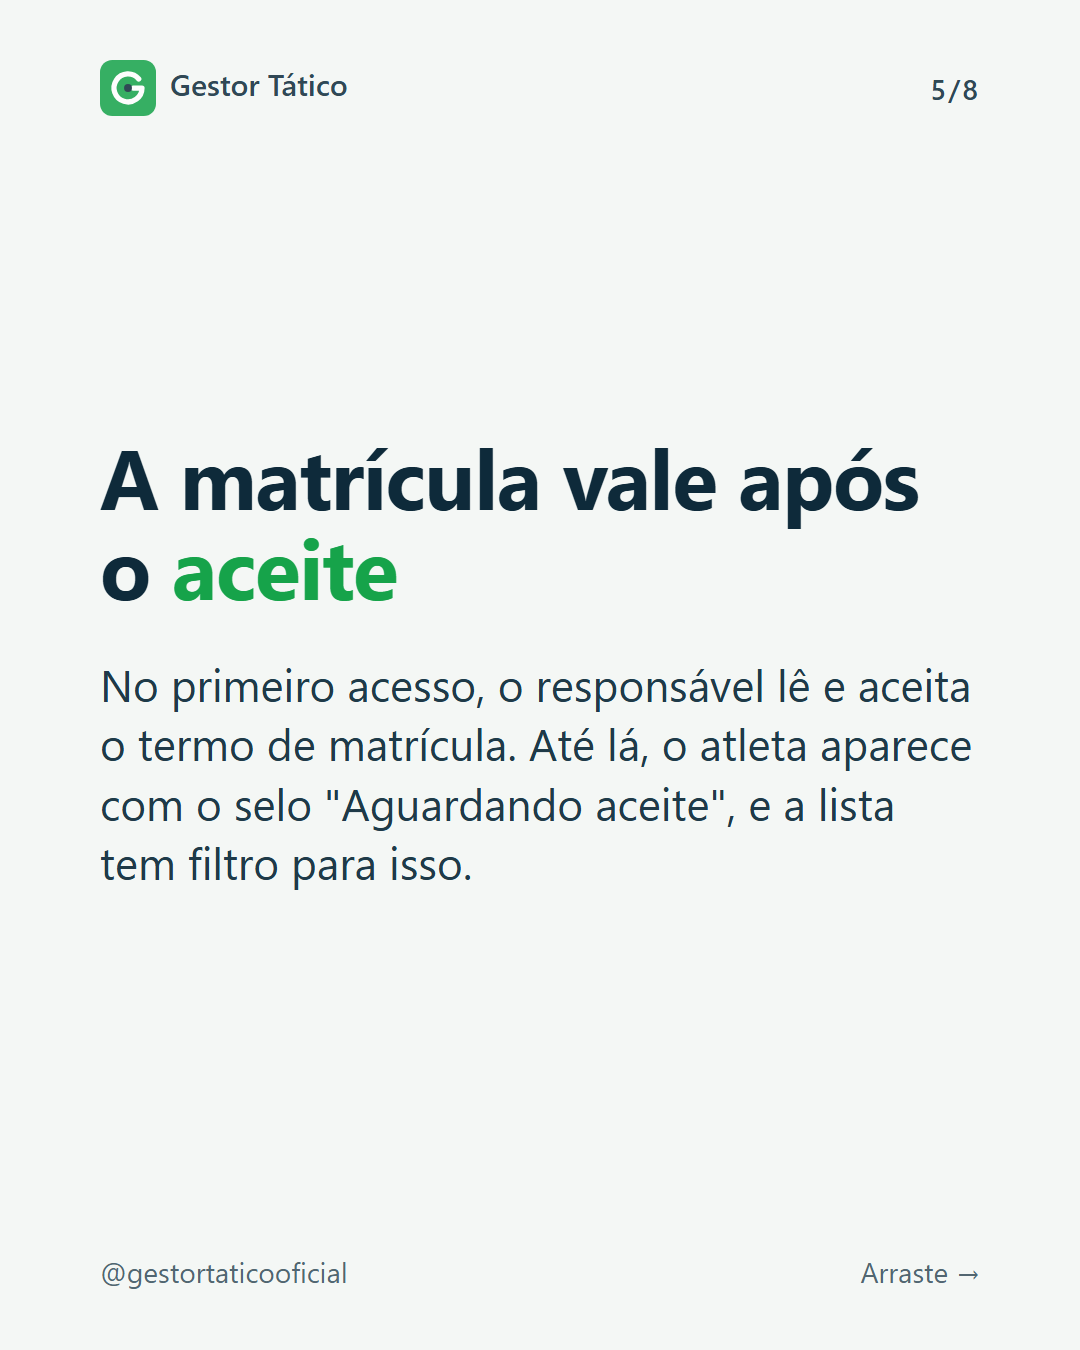
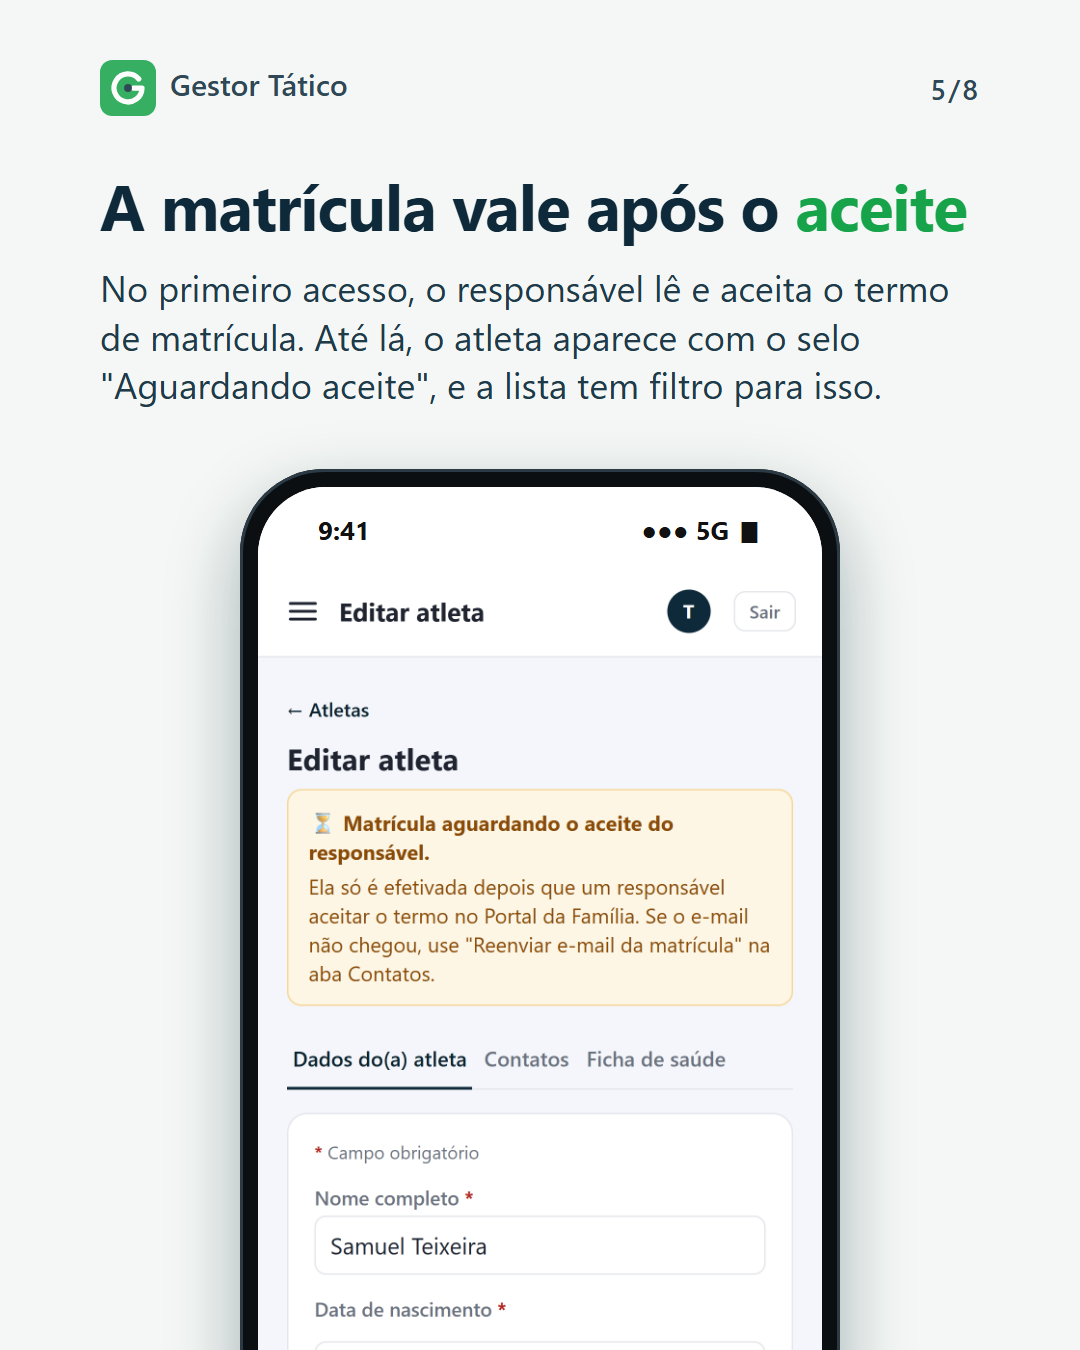
Instagram: prints reais do app nos carrosséis (matrícula publicada em 25/11, estoque, perfis, contato e primeiros passos)

diff --git a/docs/marca/instagram/decks.js b/docs/marca/instagram/decks.js
@@ -1,5 +1,5 @@
 // Textos dos carrosséis. Cada chave é um carrossel (ou post único); o nome vira o prefixo dos PNGs em png/.
-// Slide: {t:'capa'|'claro'|'verde', tag, h, p, list, passo, n, b}. <em> destaca em verde. Veja carrosseis.html.
+// Slide: {t:'capa'|'claro'|'verde', tag, h, p, list, passo, n, b, img, foco}. img = print em telas/ (celular na parte de baixo). <em> destaca em verde. Veja carrosseis.html.
 const CTA={t:'verde',h:'Teste por <em>7 dias grátis</em>',p:'Gestor Tático: gestão para escolinhas e clubes de base.',b:'Link na bio'};
 const decks={
 apresentacao:[
@@ -73,7 +73,7 @@ CTA],
 {t:'claro',h:'O que ele <em>ainda não faz</em>',p:'O sistema registra o lado do seu clube. Não monta a tabela de classificação com os outros times.'},
 CTA],
 '20261120-estoque':[
-{t:'capa',tag:'Estoque',h:'Quantas bolas <em>sobraram</em> no armário?',p:'Entradas, saídas e saldo sempre certo, com aviso quando o estoque baixa.'}
+{t:'capa',tag:'Estoque',h:'Quantas bolas <em>sobraram</em> no armário?',p:'Entradas, saídas e saldo sempre certo, com aviso quando o estoque baixa.',img:'estoque-produtos.png'}
 ],
 '20261123-contas':[
 {t:'capa',tag:'Financeiro do clube',h:'O clube <em>recebe</em>, mas e o que ele <em>paga</em>?',p:'Contas a pagar, a receber e o balanço do mês no mesmo sistema.'},
@@ -85,13 +85,13 @@ CTA],
 {t:'claro',h:'Nada <em>some</em> sem rastro',p:'Conta lançada errada não se apaga: ela é cancelada, e cada alteração fica no histórico com quem fez e quando.',n:'O balanço aparece para quem é do financeiro do clube.'},
 CTA],
 '20261125-matricula':[
-{t:'capa',tag:'Matrícula do atleta',h:'Matrícula <em>completa</em>, sem pasta de papel',p:'Atleta, responsáveis, ficha de saúde e aceite da família no mesmo cadastro.'},
+{t:'capa',tag:'Matrícula do atleta',h:'Matrícula <em>completa</em>, sem pasta de papel',p:'Atleta, responsáveis, ficha de saúde e aceite da família no mesmo cadastro.',img:'matricula-lista.png'},
 {h:'Ficha de papel <em>some</em>. E o contato da mãe?',p:'Dados espalhados em cadernos, planilhas e conversas. Na hora de achar o contato, ninguém sabe onde está.'},
-{t:'claro',h:'Tudo do atleta <em>num lugar só</em>',list:['Foto, data de nascimento e categoria','Posição em campo, se você quiser registrar','Um ou mais responsáveis, com o financeiro indicado']},
-{h:'O responsável <em>recebe o convite</em>',p:'Ao salvar a matrícula, a família recebe um e-mail para confirmar o endereço e criar a própria senha do Portal da Família.'},
-{t:'claro',h:'A matrícula vale após o <em>aceite</em>',p:'No primeiro acesso, o responsável lê e aceita o termo de matrícula. Até lá, o atleta aparece com o selo "Aguardando aceite", e a lista tem filtro para isso.'},
-{h:'Bolsa e desconto com <em>motivo anotado</em>',p:'O desconto fica no atleta, em percentual, junto do motivo. A mensalidade do mês já sai com ele aplicado.'},
-{t:'claro',h:'Atleta saiu? <em>Desative</em>, não apague',p:'O cadastro fica guardado e pode ser reativado. Cada alteração entra no histórico, com quem mexeu e o que mudou.'},
+{t:'claro',h:'Tudo do atleta <em>num lugar só</em>',list:['Foto, data de nascimento e categoria','Posição em campo, se você quiser registrar','Um ou mais responsáveis, com o financeiro indicado'],img:'matricula-dados.png'},
+{h:'O responsável <em>recebe o convite</em>',p:'Ao salvar a matrícula, a família recebe um e-mail para confirmar o endereço e criar a própria senha do Portal da Família.',img:'matricula-responsaveis.png'},
+{t:'claro',h:'A matrícula vale após o <em>aceite</em>',p:'No primeiro acesso, o responsável lê e aceita o termo de matrícula. Até lá, o atleta aparece com o selo "Aguardando aceite", e a lista tem filtro para isso.',img:'matricula-aguardando.png'},
+{h:'Bolsa e desconto com <em>motivo anotado</em>',p:'O desconto fica no atleta, em percentual, junto do motivo. A mensalidade do mês já sai com ele aplicado.',img:'matricula-dados.png',foco:330},
+{t:'claro',h:'Atleta saiu? <em>Desative</em>, não apague',p:'O cadastro fica guardado e pode ser reativado. Cada alteração entra no histórico, com quem mexeu e o que mudou.',img:'matricula-historico.png'},
 CTA],
 '20261127-pergunta':[
 {t:'capa',tag:'Pergunta do dia',h:'Qual é a maior <em>dor</em> da sua escolinha hoje?',p:'Mensalidade, chamada, comunicação com os pais ou controle do material? Conta nos comentários.'}
@@ -99,21 +99,21 @@ CTA],
 '20261130-perfis':[
 {t:'capa',tag:'Equipe e acessos',h:'Cada um da equipe vê <em>o que precisa</em>',p:'Coordenação, treinador, financeiro e secretaria com acessos diferentes.'},
 {h:'Uma senha <em>para todo mundo</em>?',p:'Quando a equipe divide o mesmo login, ninguém sabe quem mudou a mensalidade ou mexeu na chamada.'},
-{t:'claro',h:'Cada pessoa com o <em>próprio acesso</em>',p:'O administrador convida a equipe por e-mail. Cada um cria a própria senha, e ninguém precisa saber a senha do outro.'},
-{h:'Treinador: <em>as turmas dele</em>',p:'Faz a chamada, agenda jogos e monta a convocação das categorias em que está vinculado. O resto, ele só consulta.'},
-{t:'claro',h:'Secretaria: <em>o balcão</em>',list:['Cadastra atletas e responsáveis','Marca a mensalidade como paga','Cuida do estoque'],n:'Desconto e cancelamento de cobrança ficam com o financeiro.'},
+{t:'claro',h:'Cada pessoa com o <em>próprio acesso</em>',p:'O administrador convida a equipe por e-mail. Cada um cria a própria senha, e ninguém precisa saber a senha do outro.',img:'usuarios.png'},
+{h:'Treinador: <em>as turmas dele</em>',p:'Faz a chamada, agenda jogos e monta a convocação das categorias em que está vinculado. O resto, ele só consulta.',img:'chamada-celular.png'},
+{t:'claro',h:'Secretaria: <em>o balcão</em>',list:['Cadastra atletas e responsáveis','Marca a mensalidade como paga','Cuida do estoque'],n:'Desconto e cancelamento de cobrança ficam com o financeiro.',img:'secretaria-menu.png'},
 {h:'Financeiro e <em>coordenação</em>',p:'O financeiro cuida de mensalidades, contas e fornecedores. A coordenação toca o dia a dia inteiro, inclusive a equipe.'},
-{t:'claro',h:'Quem fez, <em>fica registrado</em>',p:'Cada alteração entra no histórico com o nome de quem mexeu e o que mudou. Saiu alguém da equipe? Desative a conta.'},
+{t:'claro',h:'Quem fez, <em>fica registrado</em>',p:'Cada alteração entra no histórico com o nome de quem mexeu e o que mudou. Saiu alguém da equipe? Desative a conta.',img:'matricula-historico.png'},
 CTA],
 '20261202-contato':[
 {t:'capa',tag:'Portal da Família',h:'O pai quer falar com o clube. <em>Onde está o contato?</em>',p:'Endereço, telefone, WhatsApp e e-mail de cada unidade, dentro do portal.'},
 {h:'"Qual é o <em>número</em> da secretaria?"',p:'O contato fica num grupo, num papel na geladeira ou com o treinador. E a mensagem chega no celular errado.'},
-{t:'claro',h:'Você cadastra <em>uma vez</em>',p:'Em cada unidade do clube, preencha endereço, telefone, WhatsApp e e-mail. Todos são opcionais.'},
-{h:'Fale com o clube, <em>no portal</em>',p:'O responsável encontra os contatos das unidades numa tela só, no mesmo acesso em que vê jogos, frequência e mensalidades.'},
+{t:'claro',h:'Você cadastra <em>uma vez</em>',p:'Em cada unidade do clube, preencha endereço, telefone, WhatsApp e e-mail. Todos são opcionais.',img:'unidade-contatos.png'},
+{h:'Fale com o clube, <em>no portal</em>',p:'O responsável encontra os contatos das unidades numa tela só, no mesmo acesso em que vê jogos, frequência e mensalidades.',img:'portal-contato.png'},
 {t:'claro',h:'WhatsApp <em>a um toque</em>',p:'O número vira um botão que abre a conversa com o clube, já com uma mensagem dizendo quem é o responsável e de qual atleta.'},
-{h:'E-mail <em>sem procurar endereço</em>',p:'O pai escolhe o assunto, escreve e envia pelo portal. A mensagem chega no e-mail da unidade com o nome do atleta e a categoria.',n:'O responsável recebe uma cópia do que enviou.'},
+{h:'E-mail <em>sem procurar endereço</em>',p:'O pai escolhe o assunto, escreve e envia pelo portal. A mensagem chega no e-mail da unidade com o nome do atleta e a categoria.',n:'O responsável recebe uma cópia do que enviou.',img:'portal-email.png'},
 {t:'claro',h:'Menos mensagem <em>perdida</em>',p:'A família fala com o canal certo do clube, e quem atende já sabe de quem é a mensagem.'},
 CTA],
 '20261204-primeiros-passos':[
-{t:'capa',tag:'Dica rápida',h:'Primeiro dia de teste: <em>por onde começar</em>',list:['Nome, logo e contatos do clube','Convide a equipe e crie as categorias','Cadastre os atletas e faça a chamada'],passo:true}
+{t:'capa',tag:'Dica rápida',h:'Primeiro dia de teste: <em>por onde começar</em>',list:['Nome, logo e contatos do clube','Convide a equipe e crie as categorias','Cadastre os atletas e faça a chamada'],passo:true,img:'configuracao-geral.png'}
 ]};

diff --git a/docs/marca/instagram/carrosseis.html b/docs/marca/instagram/carrosseis.html
@@ -27,6 +27,24 @@ li::before{content:"";position:absolute;left:0;top:14px;width:30px;height:30px;b
 .passo li::before{content:counter(p);width:48px;height:48px;top:0;color:#fff;font-size:30px;font-weight:700;text-align:center;line-height:48px}
 .nota{font-size:34px;opacity:.7;margin-top:30px}
 .botao{align-self:flex-start;background:#fff;color:var(--verde);font-weight:800;font-size:46px;padding:28px 56px;border-radius:70px;margin-top:20px}
+/* Slide com print do app num celular (campo img): texto em cima, celular saindo pela parte de baixo */
+.slide.com-imagem{justify-content:flex-start;padding-top:170px}
+.com-imagem h1{font-size:78px;margin-bottom:24px}
+.com-imagem h2{font-size:64px;margin-bottom:24px}
+.com-imagem p{font-size:36px;margin-bottom:16px}
+.com-imagem li{font-size:36px;margin-bottom:14px;padding-left:58px}
+.com-imagem li::before{top:8px;width:26px;height:26px}
+.com-imagem .passo li::before{width:42px;height:42px;line-height:42px;font-size:26px;top:-2px}
+.com-imagem .nota{font-size:30px;margin-top:8px}
+.com-imagem .tag{margin-bottom:28px}
+.com-imagem .rodape{display:none}
+.celular{position:relative;flex:none;align-self:center;margin-top:44px;width:600px;height:1300px;border-radius:84px;background:#0b0f12;padding:18px;
+  box-shadow:0 30px 80px rgba(0,0,0,.45),0 0 0 3px #2b3a44 inset}
+.claro .celular{box-shadow:0 30px 70px rgba(14,42,58,.35),0 0 0 3px #2b3a44 inset}
+.celular::after{content:"";position:absolute;top:34px;left:50%;width:150px;height:40px;margin-left:-75px;border-radius:24px;background:#0b0f12}
+.tela{width:100%;height:100%;border-radius:68px;overflow:hidden;background:#fff}
+.status{position:relative;z-index:1;background:#fff;height:78px;display:flex;justify-content:space-between;align-items:center;padding:8px 60px 0;color:#111;font-size:26px;font-weight:700}
+.tela img{width:100%;display:block}
 </style>
 <body><div id="app"></div>
 <script src="decks.js"></script>
@@ -34,14 +52,16 @@ li::before{content:"";position:absolute;left:0;top:14px;width:30px;height:30px;b
 const LOGO='../simbolo-fundo-escuro.svg';
 const [,deck,idx]=((location.hash.slice(1)||'').match(/^(.*?)(?:-(\d+))?$/));
 function slide(s,i,n){
- const cls=['slide']; if(s.t==='claro')cls.push('claro'); if(s.t==='verde')cls.push('verde');
+ const cls=['slide']; if(s.t==='claro')cls.push('claro'); if(s.t==='verde')cls.push('verde'); if(s.img)cls.push('com-imagem');
+ // img: arquivo em telas/ (print do app, 1170 px de largura); foco: quantos px subir a tela para mostrar um trecho mais abaixo
+ const celular=s.img?`<div class="celular"><div class="tela"><div class="status"><span>9:41</span><span>●●● 5G ▮</span></div><img src="telas/${s.img}" style="margin-top:-${s.foco||0}px" alt=""></div></div>`:'';
  const list=s.list?`<ul class="${s.passo?'passo':''}">${s.list.map(x=>`<li>${x}</li>`).join('')}</ul>`:'';
  return `<section class="${cls.join(' ')}">
  <div class="topo"><span><img src="${LOGO}" alt="">Gestor Tático</span><span class="num">${n>1?`${i+1}/${n}`:''}</span></div>
  ${s.tag?`<span class="tag">${s.tag}</span>`:''}
  ${s.t==='capa'?`<h1>${s.h}</h1>`:`<h2>${s.h}</h2>`}
  ${s.p?`<p>${s.p}</p>`:''}${list}${s.n?`<p class="nota">${s.n}</p>`:''}
- ${s.b?`<div class="botao">${s.b}</div>`:''}
+ ${s.b?`<div class="botao">${s.b}</div>`:''}${celular}
  <div class="rodape"><span>@gestortaticooficial</span>${i<n-1?'<span>Arraste →</span>':''}</div></section>`;}
 let html='';
 for(const [k,v] of Object.entries(decks)){ if(deck&&k!==deck)continue;

diff --git a/docs/marca/instagram/calendario.md b/docs/marca/instagram/calendario.md
@@ -4,7 +4,7 @@ Ritmo: **3 posts por semana (seg, qua, sex)** + stories quando der. Melhor horá
 
 Regras (valem para todo post): só falar do que o sistema faz hoje; nunca mostrar dados reais de atletas (usar a Demonstração); nada de fotos de crianças de clientes sem autorização por escrito; link do site só na bio.
 
-Os carrosséis estão prontos em `png/` (1080×1350): `mensalidade-1..8.png`, `chamada-1..7.png`, `convocacao-1..7.png`. Para refazer depois de editar `carrosseis.html`: `bash exportar.sh`.
+Desde 25/11/2026 os slides que mostram um recurso levam um print real do app num celular (campo `img` em `decks.js`, prints em `telas/`). Os carrosséis estão prontos em `png/` (1080×1350): `mensalidade-1..8.png`, `chamada-1..7.png`, `convocacao-1..7.png`. Para refazer depois de editar `carrosseis.html`: `bash exportar.sh`.
 
 | Data | Formato | Tema |
 |---|---|---|
@@ -23,7 +23,7 @@ Os carrosséis estão prontos em `png/` (1080×1350): `mensalidade-1..8.png`, `c
 | ~~Qua 18/11~~ | **Carrossel** | Campanha e artilharia do campeonato: **publicado na qui 19/11** (arte `png/20261118-campeonato-*.png`) |
 | ~~Sex 20/11~~ | Post único | Estoque: **não saiu na sexta, remarcado para a qui 26/11** |
 | ~~Seg 23/11~~ | **Carrossel** | Contas a pagar, a receber e balanço do mês: **publicado** (rascunho em `semanas/2026-11-23/rascunhos.md`, arte `png/20261123-contas-*.png`) |
-| Qua 25/11 | **Carrossel** | Matrícula completa do atleta (arte `png/20261125-matricula-*.png`) |
+| ~~Qua 25/11~~ | **Carrossel** | Matrícula completa do atleta: **publicado** (arte `png/20261125-matricula-*.png`, a primeira com prints reais do app num celular) |
 | Qui 26/11 | Post único | Estoque, com pergunta nos comentários (arte `png/20261120-estoque-1.png`), remarcado da sex 20/11 |
 | Sex 27/11 | Post único | A escolinha na palma da mão: gestão pelo celular, com print real da Chamada (arte `png/20261127-celular-1.png`, modelo `post-celular.html`). Substituiu a pergunta ao público, que ficou sem data (`png/20261127-pergunta-1.png`). **+ story "Sem Black Friday"** com o cupom BEMVINDO25 (`png/20261127-story-black-friday.png`, modelo `story-black-friday.html`) |
 

diff --git a/docs/marca/instagram/agente-semanal.md b/docs/marca/instagram/agente-semanal.md
@@ -20,6 +20,7 @@ Rascunhos dos 3 posts da próxima semana (segunda, quarta e sexta), prontos para
 - Novidade do produto: olhar `git log --since="7 days ago" --oneline`; só virar post o que for visível ao cliente e já estiver no ar. Nunca divulgar o que é interno.
 - Tom: direto, em português do Brasil, falando com quem cuida de escolinha ou clube de base (dono, coordenador, treinador). Sem jargão técnico, sem exagero de emoji (no máximo 1 ou 2 por legenda).
 - Todo carrossel termina com o slide `CTA` (já definido em `decks.js`), 6 a 8 slides, 1 ideia por slide, títulos curtos.
+- **Imagens (desde 25/11/2026, pedido do Cleber):** os slides que mostram um recurso levam um print real do app num celular (campo `img` do slide, arquivo em `telas/`; `foco` sobe a tela em px para mostrar um trecho mais abaixo). Em geral: capa + 3 a 5 slides do recurso com imagem; o slide do problema e o CTA ficam só com texto. Com imagem, o texto do slide precisa ser curto (título de até 2 linhas e parágrafo de até 3). Use os prints que já existem em `telas/`; se faltar uma tela, **não invente**: liste na seção "Pendências para o Cleber confirmar" qual print precisa ser tirado (eles saem do ambiente de desenvolvimento, só com dados fictícios do clube "Demonstração FC").
 
 ## Regras que não podem ser quebradas
 
